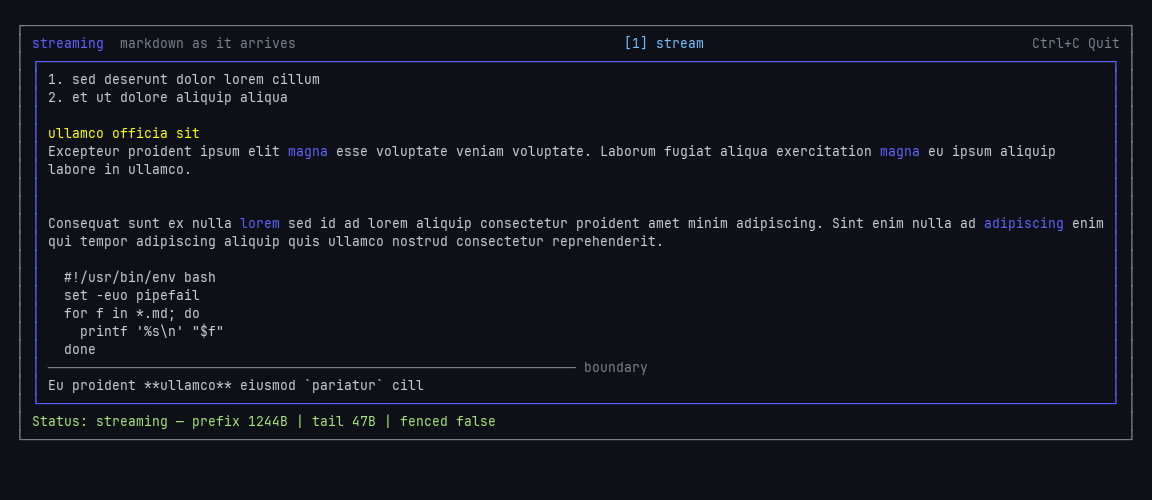
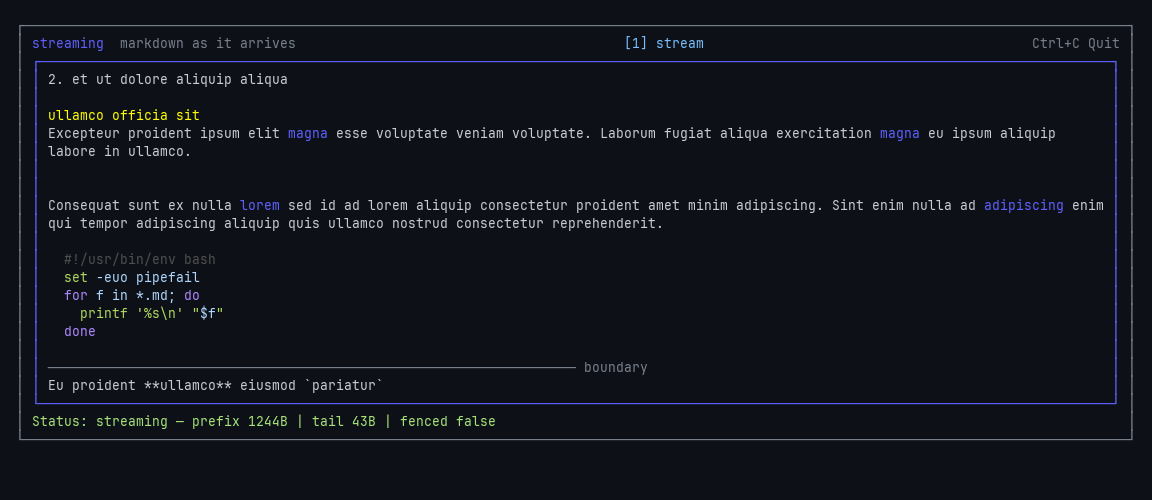
fix(markdown): highlight fenced code
StyleCodeBlock.Theme was never set, so chroma never ran and code blocks
rendered as plain indented text — styled as a block, unstyled within,
with no error to notice.

Chroma ships named stylesheets rather than taking colors, so it cannot be
driven from a tuikit.Theme the way the rest of the styling is. Hardcoding
one would contradict the Theme contract, so New now takes options in the
kit's house style and WithSyntaxTheme picks the stylesheet;
DefaultSyntaxTheme is tokyonight-night. WithGlamour replaces the
pass-through options the signature used to take directly.

The test asserts distinct keywords get distinct colors: a missing theme
still produces ANSI output, so only comparing against plain text would
have passed while the bug was live.

Changed region(s): [[0.0312, 0.39, 0.9688, 0.72], [0.0312, 0.15, 0.9062, 0.36], [0.3438, 0.75, 0.375, 0.78]]

diff --git a/markdown/render.go b/markdown/render.go
@@ -20,15 +20,49 @@ import (
 	"charm.land/glamour/v2/ansi"
 )
 
+// DefaultSyntaxTheme is the chroma stylesheet fenced code is highlighted with
+// when no other is given. Chroma ships named stylesheets rather than taking
+// colors, so a tuikit.Theme cannot drive highlighting the way it drives the
+// rest of the styling — pick one that suits your palette with
+// [WithSyntaxTheme]. The names come from chroma's styles package.
+const DefaultSyntaxTheme = "tokyonight-night"
+
+// Option configures the renderer.
+type Option func(*config)
+
+type config struct {
+	syntax  string
+	glamour []glamour.TermRendererOption
+}
+
+// WithSyntaxTheme sets the chroma stylesheet used for fenced code, overriding
+// [DefaultSyntaxTheme]. An unknown name leaves code unhighlighted rather than
+// failing. Light palettes want a light stylesheet — "tokyonight-day",
+// "catppuccin-latte" and "github" are reasonable starts.
+func WithSyntaxTheme(name string) Option {
+	return func(c *config) { c.syntax = name }
+}
+
+// WithGlamour passes options straight through to glamour, for anything this
+// package does not surface.
+func WithGlamour(opts ...glamour.TermRendererOption) Option {
+	return func(c *config) { c.glamour = append(c.glamour, opts...) }
+}
+
 // New returns a render function that formats markdown with glamour, colored
-// from theme. The returned function is safe to reuse across widths: it keeps
-// one renderer per width, since building one parses a stylesheet and starts a
-// goldmark pipeline — far too much to redo every frame.
+// from theme, with fenced code highlighted by chroma. The returned function is
+// safe to reuse across widths: it keeps one renderer per width, since building
+// one parses a stylesheet and starts a goldmark pipeline — far too much to redo
+// every frame.
 //
 // Rendering failures fall back to the input text: an answer that cannot be
 // styled must still be readable.
-func New(theme tuikit.Theme, opts ...glamour.TermRendererOption) tuikit.RenderFunc {
-	style := styleFor(theme)
+func New(theme tuikit.Theme, opts ...Option) tuikit.RenderFunc {
+	cfg := config{syntax: DefaultSyntaxTheme}
+	for _, opt := range opts {
+		opt(&cfg)
+	}
+	style := styleFor(theme, cfg.syntax)
 	var mu sync.Mutex
 	renderers := map[int]*glamour.TermRenderer{}
 
@@ -48,7 +82,7 @@ func New(theme tuikit.Theme, opts ...glamour.TermRendererOption) tuikit.RenderFu
 			options := append([]glamour.TermRendererOption{
 				glamour.WithStyles(style),
 				glamour.WithWordWrap(width),
-			}, opts...)
+			}, cfg.glamour...)
 			built, err := glamour.NewTermRenderer(options...)
 			if err != nil {
 				return text
@@ -75,7 +109,7 @@ func trimPadding(out string) string {
 
 // styleFor maps a tuikit.Theme onto glamour's stylesheet. Only the elements the
 // theme has an opinion about are set; everything else keeps glamour's default.
-func styleFor(theme tuikit.Theme) ansi.StyleConfig {
+func styleFor(theme tuikit.Theme, syntax string) ansi.StyleConfig {
 	muted, brand := hex(theme.Muted), hex(theme.Brand)
 	blue, yellow := hex(theme.Blue), hex(theme.Yellow)
 	border := hex(theme.FocusBorder)
@@ -109,8 +143,11 @@ func styleFor(theme tuikit.Theme) ansi.StyleConfig {
 		Link:     ansi.StylePrimitive{Color: &blue, Underline: ptr(true)},
 		LinkText: ansi.StylePrimitive{Color: &blue},
 
-		Code:      ansi.StyleBlock{StylePrimitive: ansi.StylePrimitive{Color: &brand}},
-		CodeBlock: ansi.StyleCodeBlock{StyleBlock: ansi.StyleBlock{Margin: ptr(uint(2))}},
+		Code: ansi.StyleBlock{StylePrimitive: ansi.StylePrimitive{Color: &brand}},
+		CodeBlock: ansi.StyleCodeBlock{
+			StyleBlock: ansi.StyleBlock{Margin: ptr(uint(2))},
+			Theme:      syntax,
+		},
 		Table: ansi.StyleTable{
 			StyleBlock:      block(ansi.StylePrimitive{}),
 			CenterSeparator: ptr("┼"),

diff --git a/markdown/render_test.go b/markdown/render_test.go
@@ -76,3 +76,49 @@ func TestNewReusesRenderersPerWidth(t *testing.T) {
 		t.Fatalf("width 70 rendered identically to width 20, want a different wrap")
 	}
 }
+
+// Fenced code must actually be highlighted: chroma only runs when the style
+// carries a theme name, and forgetting it renders code as plain text with no
+// error to notice.
+func TestNewHighlightsFencedCode(t *testing.T) {
+	got := New(tuikit.DefaultTheme())("```go\nfunc main() { return }\n```", 60)
+	if visible(got) == got {
+		t.Fatal("code block carries no ANSI styling at all")
+	}
+	// Distinct tokens must not all share one color, which is what a missing
+	// chroma theme looks like: styled as a block, unhighlighted within.
+	colors := map[string]bool{}
+	for _, token := range []string{"func", "main", "return"} {
+		if i := strings.Index(got, token); i > 0 {
+			colors[styleBefore(got[:i])] = true
+		}
+	}
+	if len(colors) < 2 {
+		t.Fatalf("keywords share one color %v, want chroma highlighting", colors)
+	}
+}
+
+// styleBefore returns the last ANSI escape sequence in s, i.e. the style in
+// force at the end of it.
+func styleBefore(s string) string {
+	last := strings.LastIndex(s, "\x1b[")
+	if last < 0 {
+		return ""
+	}
+	if end := strings.Index(s[last:], "m"); end > 0 {
+		return s[last : last+end+1]
+	}
+	return ""
+}
+
+func TestWithSyntaxThemeChangesHighlighting(t *testing.T) {
+	code := "```go\nfunc main() { return }\n```"
+	dark := New(tuikit.DefaultTheme(), WithSyntaxTheme("tokyonight-night"))(code, 60)
+	light := New(tuikit.DefaultTheme(), WithSyntaxTheme("tokyonight-day"))(code, 60)
+	if dark == light {
+		t.Fatal("dark and light syntax themes rendered identically")
+	}
+	if visible(dark) != visible(light) {
+		t.Fatalf("syntax theme changed the text, not just its color:\n%q\n%q", visible(dark), visible(light))
+	}
+}

diff --git a/examples/streaming/main.go b/examples/streaming/main.go
@@ -26,15 +26,16 @@ import (
 
 func main() {
 	var (
-		seed  = flag.Uint64("seed", 1, "random seed; fix it to replay a stream exactly")
-		cps   = flag.Int("cps", 80, "characters per second")
-		block = flag.Int("block", 3, "block size: sentences per paragraph, items per list, rows per table")
-		debug = flag.Bool("debug", false, "mark the boundary and report prefix/tail sizes")
+		seed   = flag.Uint64("seed", 1, "random seed; fix it to replay a stream exactly")
+		cps    = flag.Int("cps", 80, "characters per second")
+		block  = flag.Int("block", 3, "block size: sentences per paragraph, items per list, rows per table")
+		debug  = flag.Bool("debug", false, "mark the boundary and report prefix/tail sizes")
+		syntax = flag.String("syntax", markdown.DefaultSyntaxTheme, "chroma stylesheet for fenced code")
 	)
 	flag.Parse()
 
 	theme := tuikit.DefaultTheme()
-	render := markdown.New(theme)
+	render := markdown.New(theme, markdown.WithSyntaxTheme(*syntax))
 	page := &streamPage{
 		theme:     theme,
 		render:    render,

diff --git a/README.md b/README.md
@@ -33,9 +33,9 @@ reflows, and closing it leaves the page exactly as it was:
 `StreamingMarkdown`, from `go run ./examples/streaming`. A generated document
 arrives a character at a time; blocks that have settled are formatted and
 cached, and the rest is shown verbatim below the `boundary` rule that `-debug`
-draws. Watch a code fence stream as plain text and snap to highlighted the
-moment it closes — the answer never sits unformatted waiting for the stream to
-end:
+draws. Watch a code fence stream as plain text and snap to chroma-highlighted
+the moment it closes — the answer never sits unformatted waiting for the stream
+to end:
 
 ![Streaming markdown](docs/gifs/streaming.gif)
 
@@ -93,7 +93,8 @@ end:
   and snaps to highlighted the moment it closes, instead of the whole answer
   popping into shape at the end. Takes a `RenderFunc`; `tuikit/markdown`
   provides one backed by glamour, in a separate package so importing tuikit does
-  not pull in a markdown engine.
+  not pull in a markdown engine. Fenced code is highlighted by chroma;
+  `markdown.WithSyntaxTheme` picks the stylesheet.
 - **`Overlay`** — a dismissable floating panel: a titled, bordered, scrollable
   box drawn *over* the host's view rather than stacked above or below it, for
   the reference output (a help table, a usage report) that otherwise has nowhere

diff --git a/docs/examples.md b/docs/examples.md
@@ -241,6 +241,14 @@ func (p *answerPage) View(width, height int) string {
 }
 ```
 
+Fenced code is highlighted by chroma once its closing fence lands. Chroma ships
+named stylesheets rather than taking colors, so it cannot be driven from a
+`Theme` the way the rest of the styling is — pick one to match your palette:
+
+```go
+markdown.New(theme, markdown.WithSyntaxTheme("tokyonight-day"))
+```
+
 The result is unstyled text, so wrap it in a `lipgloss.Style` to color the
 portion that has not been formatted yet. `examples/streaming` drives it with an
 endless generated document and a `-debug` flag that marks the boundary:
